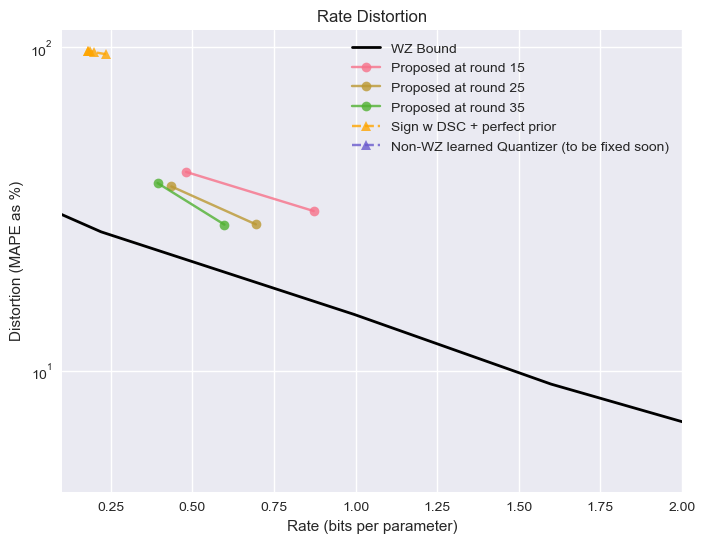
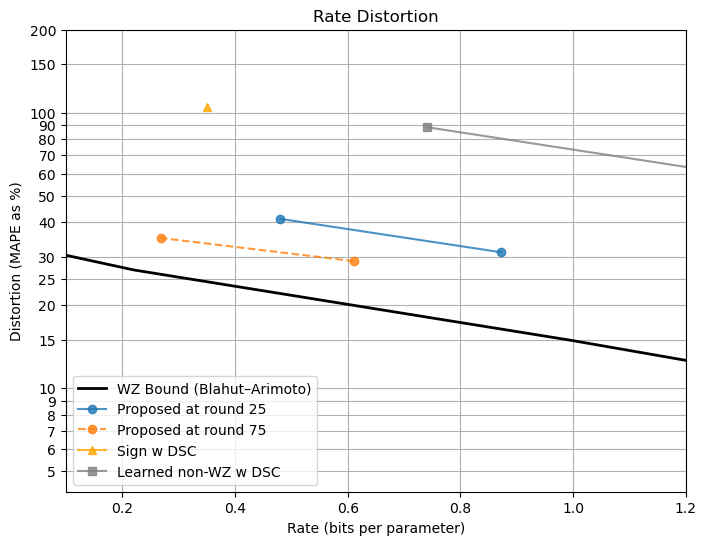
asaaaaaaaaaaa

diff --git a/Paper_doc/sections/3-Methods.tex b/Paper_doc/sections/3-Methods.tex
@@ -2,7 +2,7 @@
 \label{sec:ourmethod}
 %-----------------------------------------------------------------------
 In this section, we present our proposed framework.
-We consider a multi-terminal approach as we have multiple workers with correlated gradients. This link has been observed in other works~\cite{ZhangTao2022, Abrahamyan2022LGC} and further confirmed by us in~\ref{fig:grad_corr} (per-coordinate correlation).
+We consider a multi-terminal approach as we have multiple workers with correlated gradients. This link has been observed in other works~\cite{ZhangTao2022, Abrahamyan2022LGC} and further confirmed by us in~\ref{fig:grad_corr} (per-coordinate correlation). The distribution shift was also check via KL divergence and found to be very low.
 Since these agents do not communicate directly, we employ Distributed Source Coding (DSC) principles to exploit intra-node, and even temporal correlation.
 We first describe the quantizer framework, turning a gradient vector into a bitstream, and back. Then we will describe 2 different side information (SI) setup which define our two variants of the quantizer. Armed with these quantizers, we will finally explore possible communication protocols to leverage them in a federated learning setup.
 
@@ -38,11 +38,7 @@ Each element of this vector is then quantized, i.e. encoded into symbols \(u_{k,
 
 % -----------------------------------------------------------------------
 \textbf{Pre-/Post-processing.}
-WZQ is sensitive to distribution drift. We apply basic normalization per round using the 99th percentile to stabilize scales as gradients tend to become smaller in scale over time; with this, the round-to-round gradient KL for ResNet18 is \(<0.01\), indicating low shift. Two low-cost add-ons further improve performance but their benefit depends on the gradient distribution:
-
-\emph{\- Per-layer normalization:} mitigates large layer-wise scale disparities at the cost of sending layer min and max stats.
-
-\emph{\- Outlier handling:} values beyond \(0.3\times\\\mathrm{99th\ percentile}\) are pulled into range and quantized with the rest; minimal extra info is needed to restores them at server.
+Normalization per layers helps with training stability and lower distortion when scales are different between layers. Outliers are few and can be seperately encoded with a negligible rate cost. We also use a random permutation to break any spatial correlation which helps the quantizer generalize better.
 
 %-----------------------------------------------------------------------
 \subsubsection{Training Quantizers and SI variants}
@@ -72,7 +68,7 @@ The proposed protocol is shown in figure \ref{fig:protocols_timeline}. It consis
 \begin{figure}[ht]
 %    \includegraphics[width=0.5\textwidth]{sections/figure/protocols}
     \input{sections/figure/protocol_timeline}
-    \caption{Shows the overall idea of the propsed protocol as a timeline.}
+    \caption{Overall timeline of the propsed protocol. Temporal only quantization is trained on the workers and is limited to SI at the same worker and is better at higher rates. All-SI quantization is trained on the server and uses all workers' past reconstructions as SI.}
     \label{fig:protocols_timeline}
 \end{figure}
 

diff --git a/Paper_doc/sections/0-abstract.tex b/Paper_doc/sections/0-abstract.tex
@@ -1,7 +1,7 @@
 \begin{abstract}
 
- We address the growing communication bottleneck in synchronous federated and distributed deep learning, intensified by large models such as LLMs and ViTs. We present a learned distributed source coding (DSC) method that quantizes worker updates using a learned successive Wyner–Ziv (WZ) scheme. The server aggregates short-horizon side information from recent reconstructions across all workers, allowing the encoder to convert cross-worker and temporal redundancy into bit-rate savings while preserving model quality.
-Our approach is grounded in Slepian–Wolf and Wyner–Ziv limits for correlated sources, which motivate coding near conditional rates when side information is available. In contrast to past works that rely on uniform quantization or sparsification, we introduce: (i) a multi-terminal per-coordinate learned WZ quantizer with refinement stages, (ii) a protocol applying said quantizer in a standard FL training loop.
+ We address the growing communication bottleneck in synchronous federated and distributed deep learning, intensified by large models. We present a learned distributed source coding (DSC) method that quantizes worker updates using a learned successive Wyner–Ziv (WZ) scheme. The server aggregates short-horizon side information from recent reconstructions across all workers, allowing the encoder to convert cross-worker and temporal redundancy into bit-rate savings while preserving model quality.
+Our approach is grounded in Wyner–Ziv limits for correlated sources, which motivate coding near conditional rates when side information is available. In contrast to past works that rely on uniform quantization or sparsification, we introduce: (i) a multi-terminal per-coordinate learned WZ quantizer with refinement stages, (ii) a protocol applying said quantizer in a standard FL training loop.
 Our findings position learned intra-worker DSC quantization as a scalable communication primitive for federated learning and large-scale distributed training.
 \end{abstract}
 

diff --git a/Paper_doc/sections/4-Results.tex b/Paper_doc/sections/4-Results.tex
@@ -14,7 +14,7 @@ Due to complexity, the step requiring Slepian wolf coding is replaced with a joi
 \subsection{Rate-Distortion Performance}
 Figure \ref{fig:rate_distortion} shows the rate-distortion performance of the different communication protocols, including the proposed WZ quantizer, a learned non-WZ quantizer and the sign quantizer. To keep the comparison fair, we include the SW coding step in all protocols, with sign protocol getting a perfect prior which is not possible in practice.
 
-The WZ boundary was calculated using Blahut–Arimoto method which gives an empirical lower bound on the rate-distortion performance. Note that the boundry changes depending on the SI used and this boundry corresponds to the SI at round 35.
+The WZ boundary was calculated using Blahut–Arimoto method which gives an empirical lower bound on the rate-distortion performance. The SI used for this calculation is SI at round 25 which slightly before overfitting starts to happen.
 
 \figure[ht]
     \centering
